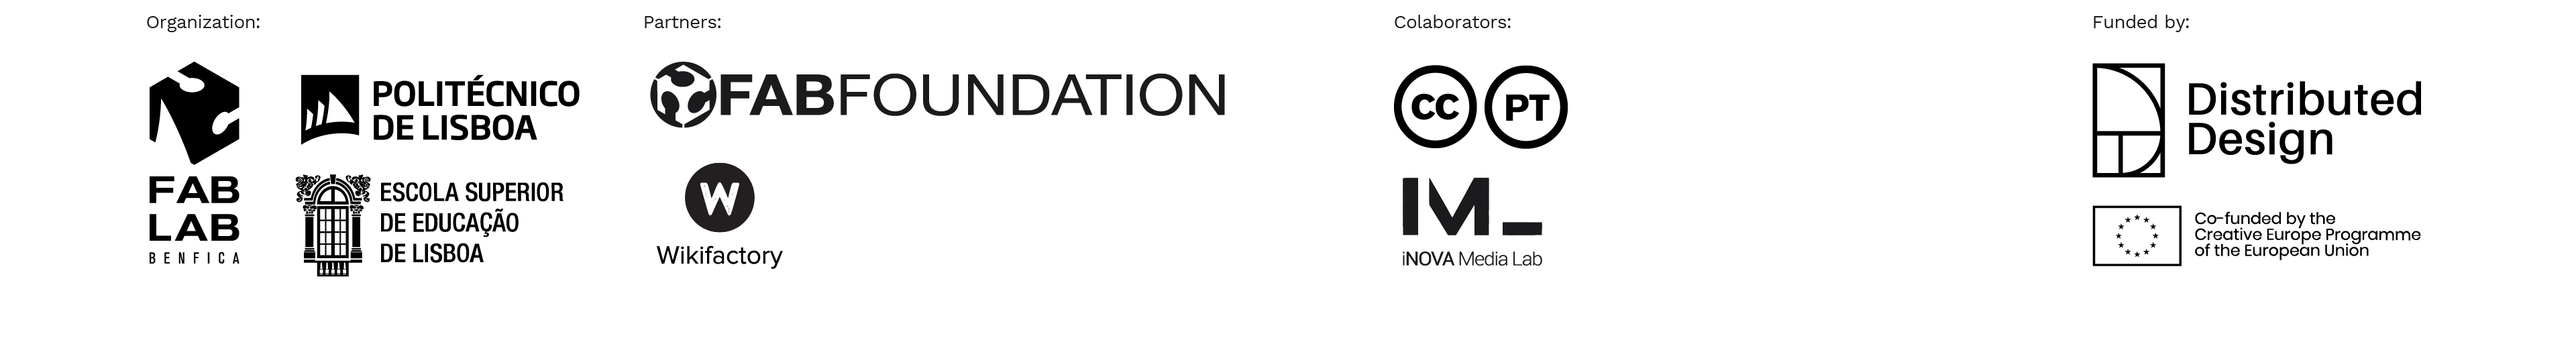
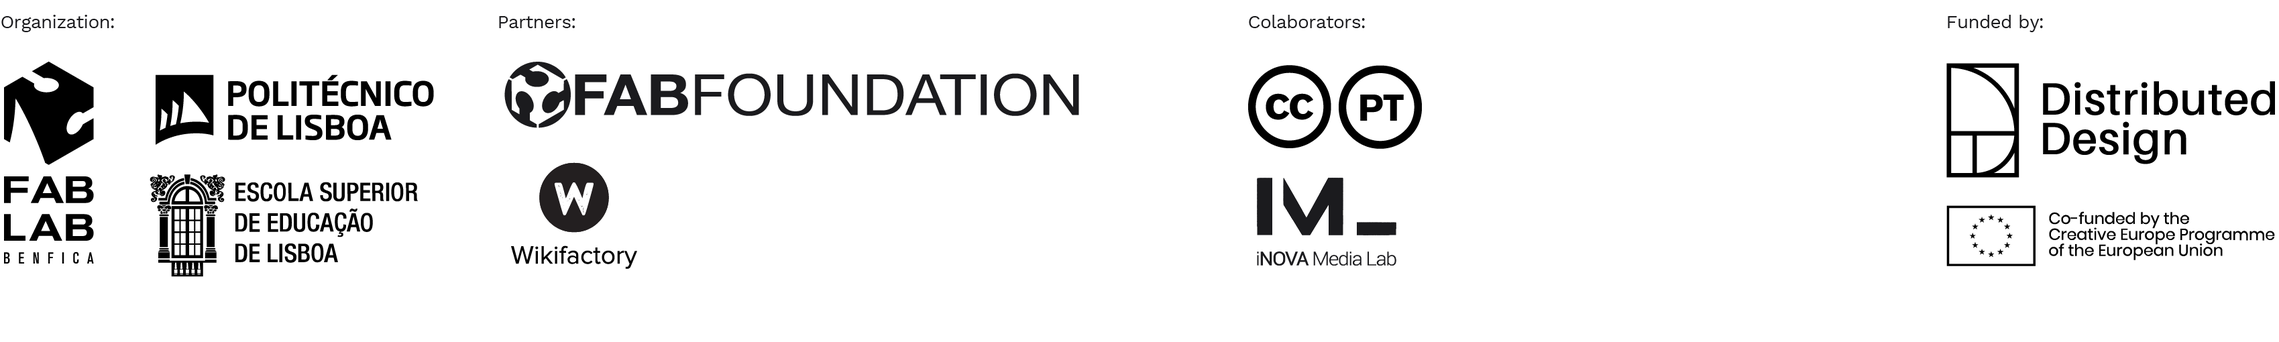
footer

diff --git a/indexPT.html b/indexPT.html
@@ -291,7 +291,7 @@
           <caption>Otto DiY é um excelente exemplo de documentação no Wikifactory</caption>
         </div>
       </div>
-      <div class="row">
+      <div class="row" style="margin-bottom: 20%">
         <h4><strong>B. Se algum dos seus projetos cumprir os requisitos anteriores, preencha este formulário. </strong></h4>
         <p class="boxed">Não levará mais de 10 minutos. Basicamente, queremos algumas informações e o consentimento de publicação, bem como links para informações públicas sobre o projeto.</p>
         <div id=typeform" class="boxed"><h4><strong>O FORMULÁRIO FICARÁ DISPONÍVEL DEPOIS DE DIA 10 DE JULHO</strong></h4>
@@ -310,11 +310,12 @@
 
   <footer class="footer">
 
-    <!-- <img class="sectionFooterDecor" src="images/waves.svg" />-->
+    <img class="sectionFooterDecor" src="images/footer.png" />
 
   </footer>
 
-  <!-- Google Analytics -->
+
+    <!-- Google Analytics -->
   <script type="text/javascript">
 
     var _gaq = _gaq || [];

diff --git a/index.html b/index.html
@@ -288,7 +288,7 @@
           <caption>Otto DiY is a great example of full documentation on Wikifactory</caption>
         </div>
       </div>
-      <div class="row">
+      <div class="row" style="margin-bottom: 20%">
         <h4><strong>B. If any of your projects meet the previous requirements, feel free to apply through this form:</strong></h4>
         <p class="boxed">It won’t take you more than 10 minutes. We basically want some information and publishing consent, as well as links to your public information about the project.</p>
         <div id=typeform" class="boxed"><h4><strong>FORM WILL BE AVAILABLE AFTER THE 10th of JULY</strong></h4>

diff --git a/css/custom.css b/css/custom.css
@@ -43,7 +43,10 @@ a:hover{
 }
 
 .sectionFooterDecor{
-    width:100vw;
+    display: block;
+    margin-left: auto;
+    margin-right: auto;
+    width:90%;
 }
 
 
